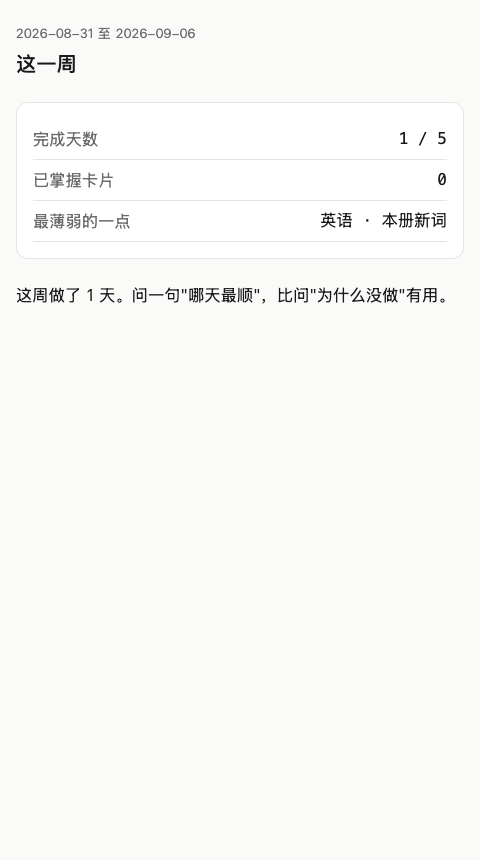
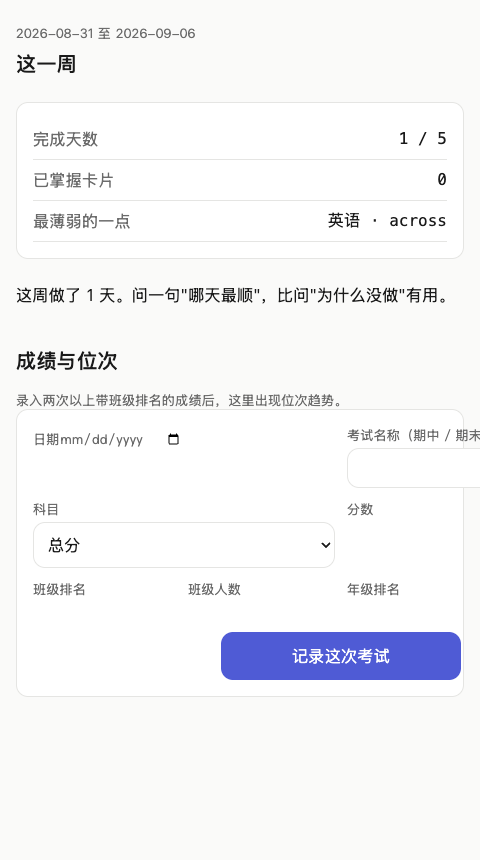
feat: 成绩与位次录入（MVP #6）：API、家长页表单/表格/位次折线（单序列，y 轴倒置）、端到端
Claude-Session: https://claude.ai/code/session_01QpKeEnngihpE2D68iPBZyr

diff --git a/src/client/screens/Parent.tsx b/src/client/screens/Parent.tsx
@@ -1,10 +1,12 @@
 import { useEffect, useState } from "react";
-import { api, type Weekly } from "../api.ts";
+import { api, EXAM_SUBJECTS, type ExamInput, type ExamScore, type Weekly } from "../api.ts";
 
-/** 家长周报：一页四项。不显示逐题、时长、时间戳。 */
+/** 家长页：周报四项 + 成绩与位次录入 + 位次趋势。同一视觉系统，信息密度可更高；不显示逐题与时长。 */
 export function Parent() {
   const [w, setW] = useState<Weekly | null>(null);
-  useEffect(() => { void api.weekly().then(setW); }, []);
+  const [exams, setExams] = useState<ExamScore[]>([]);
+  const reload = () => api.exams().then(setExams);
+  useEffect(() => { void api.weekly().then(setW); void reload(); }, []);
   if (!w) return null;
   return (
     <section>
@@ -16,6 +18,11 @@ export function Parent() {
         <Row label="最薄弱的一点" value={w.weakest ? `${w.weakest.subject} · ${w.weakest.topic}` : "还没有数据"} />
       </div>
       <p style={{ marginTop: 24 }}>{w.suggestion}</p>
+
+      <h2 className="t-title" style={{ margin: "40px 0 16px" }}>成绩与位次</h2>
+      <RankChart exams={exams} />
+      <ExamTable exams={exams} onDelete={(id) => void api.deleteExam(id).then(reload)} />
+      <ExamForm onAdded={reload} />
     </section>
   );
 }
@@ -25,5 +32,99 @@ function Row({ label, value }: { label: string; value: string }) {
     <div style={{ display: "flex", justifyContent: "space-between", padding: "8px 0", borderBottom: "1px solid var(--border)" }}>
       <span className="muted">{label}</span><span className="num">{value}</span>
     </div>
+  );
+}
+
+/** 位次趋势：一科一条线（单序列，无图例），y 轴倒置——第 1 名在上。2px 线、8px 标记、hover 提示。 */
+function RankChart({ exams }: { exams: ExamScore[] }) {
+  const subjects = EXAM_SUBJECTS.filter((s) => exams.some((e) => e.subject_id === s && e.class_rank !== null));
+  const [subject, setSubject] = useState<string | null>(null);
+  const cur = subject && subjects.includes(subject) ? subject : subjects[0];
+  if (!cur) return <p className="muted t-small">录入两次以上带班级排名的成绩后，这里出现位次趋势。</p>;
+  const pts = exams.filter((e) => e.subject_id === cur && e.class_rank !== null).sort((a, b) => a.date.localeCompare(b.date));
+  const W = 600, H = 200, L = 40, R = 16, T = 16, B = 32;
+  const maxRank = Math.max(...pts.map((p) => p.class_size ?? p.class_rank!), 10);
+  const x = (i: number) => L + (pts.length === 1 ? (W - L - R) / 2 : (i * (W - L - R)) / (pts.length - 1));
+  const y = (r: number) => T + ((r - 1) * (H - T - B)) / (maxRank - 1);
+  const ticks = [1, Math.round(maxRank / 2), maxRank];
+  return (
+    <figure style={{ margin: "0 0 16px" }}>
+      <div style={{ display: "flex", gap: 8, flexWrap: "wrap", marginBottom: 8 }}>
+        {subjects.map((s) => <button key={s} className="btn-text" aria-pressed={s === cur} style={{ color: s === cur ? "var(--text)" : undefined }} onClick={() => setSubject(s)}>{s}</button>)}
+      </div>
+      <svg viewBox={`0 0 ${W} ${H}`} role="img" aria-label={`${cur} 班级位次趋势`} style={{ width: "100%", height: "auto", display: "block" }}>
+        {ticks.map((t) => (
+          <g key={t}>
+            <line x1={L} x2={W - R} y1={y(t)} y2={y(t)} stroke="var(--border)" strokeWidth={1} />
+            <text x={L - 8} y={y(t) + 4} textAnchor="end" fontSize={11} fill="var(--text-muted)" className="num">{t}</text>
+          </g>
+        ))}
+        <polyline fill="none" stroke="var(--text)" strokeWidth={2} strokeLinejoin="round" points={pts.map((p, i) => `${x(i)},${y(p.class_rank!)}`).join(" ")} />
+        {pts.map((p, i) => (
+          <g key={p.id}>
+            <circle cx={x(i)} cy={y(p.class_rank!)} r={4} fill="var(--text)" stroke="var(--surface)" strokeWidth={2} />
+            <circle cx={x(i)} cy={y(p.class_rank!)} r={12} fill="transparent"><title>{`${p.date} ${p.name}：第 ${p.class_rank} 名${p.class_size ? ` / ${p.class_size}` : ""}`}</title></circle>
+            <text x={x(i)} y={H - 10} textAnchor="middle" fontSize={11} fill="var(--text-muted)">{p.name}</text>
+          </g>
+        ))}
+      </svg>
+      <figcaption className="t-small muted">{cur} · 班级位次（上为第 1 名）</figcaption>
+    </figure>
+  );
+}
+
+function ExamTable({ exams, onDelete }: { exams: ExamScore[]; onDelete: (id: number) => void }) {
+  if (exams.length === 0) return null;
+  return (
+    <div style={{ overflowX: "auto", marginBottom: 16 }}>
+      <table className="t-small" style={{ width: "100%", borderCollapse: "collapse" }}>
+        <thead><tr className="muted">{["日期", "考试", "科目", "分数", "班级", "年级", ""].map((h) => <th key={h} style={{ textAlign: "left", padding: "6px 8px", borderBottom: "1px solid var(--border)", fontWeight: 400 }}>{h}</th>)}</tr></thead>
+        <tbody>
+          {exams.map((e) => (
+            <tr key={e.id}>
+              <td className="num" style={td}>{e.date}</td><td style={td}>{e.name}</td><td style={td}>{e.subject_id}</td>
+              <td className="num" style={td}>{e.score} / {e.full_score}</td>
+              <td className="num" style={td}>{e.class_rank ?? "—"}{e.class_size ? ` / ${e.class_size}` : ""}</td>
+              <td className="num" style={td}>{e.grade_rank ?? "—"}{e.grade_size ? ` / ${e.grade_size}` : ""}</td>
+              <td style={td}><button className="btn-text" onClick={() => onDelete(e.id)}>删除</button></td>
+            </tr>
+          ))}
+        </tbody>
+      </table>
+    </div>
+  );
+}
+const td = { padding: "6px 8px", borderBottom: "1px solid var(--border)" } as const;
+
+function ExamForm({ onAdded }: { onAdded: () => void }) {
+  const empty: ExamInput = { date: "", name: "", subject: "总分", score: "", fullScore: "", classRank: "", classSize: "", gradeRank: "", gradeSize: "" };
+  const [f, setF] = useState<ExamInput>(empty);
+  const [msg, setMsg] = useState<string | null>(null);
+  const set = (k: keyof ExamInput) => (e: React.ChangeEvent<HTMLInputElement | HTMLSelectElement>) => setF({ ...f, [k]: e.target.value });
+  const submit = async (e: React.FormEvent) => {
+    e.preventDefault();
+    try { await api.addExam(f); setF({ ...empty, date: f.date, name: f.name }); setMsg("已记录。"); onAdded(); }
+    catch (err) { setMsg(String((err as Error).message)); }
+  };
+  const field = (label: string, k: keyof ExamInput, type = "text") => (
+    <label className="t-small muted" style={{ display: "block" }}>{label}<input type={type} value={f[k]} onChange={set(k)} style={{ marginTop: 4 }} /></label>
+  );
+  return (
+    <form onSubmit={submit} className="card" style={{ padding: 16, display: "grid", gridTemplateColumns: "1fr 1fr", gap: 12 }}>
+      {field("日期", "date", "date")}
+      {field("考试名称（期中 / 期末 / 月考）", "name")}
+      <label className="t-small muted" style={{ display: "block" }}>科目
+        <select value={f.subject} onChange={set("subject")} style={{ display: "block", marginTop: 4, width: "100%", padding: 10, borderRadius: 12, border: "1px solid var(--border)", background: "var(--surface)", color: "var(--text)", fontSize: 16 }}>
+          {EXAM_SUBJECTS.map((s) => <option key={s} value={s}>{s}</option>)}
+        </select>
+      </label>
+      <div style={{ display: "grid", gridTemplateColumns: "1fr 1fr", gap: 8 }}>{field("分数", "score", "number")}{field("满分", "fullScore", "number")}</div>
+      <div style={{ display: "grid", gridTemplateColumns: "1fr 1fr", gap: 8 }}>{field("班级排名", "classRank", "number")}{field("班级人数", "classSize", "number")}</div>
+      <div style={{ display: "grid", gridTemplateColumns: "1fr 1fr", gap: 8 }}>{field("年级排名", "gradeRank", "number")}{field("年级人数", "gradeSize", "number")}</div>
+      <div style={{ gridColumn: "1 / -1" }}>
+        <button className="btn-primary" type="submit">记录这次考试</button>
+        {msg && <p className="t-small muted" style={{ textAlign: "center", marginTop: 8 }}>{msg}</p>}
+      </div>
+    </form>
   );
 }

diff --git a/src/client/api.ts b/src/client/api.ts
@@ -15,9 +15,17 @@ export interface Answer { back: string; answerPoints?: string[]; sourceQuote: st
 export interface Weekly { week: { from: string; to: string }; daysDone: number; daysTotal: number; masteredCards: number; weakest: { subject: string; topic: string } | null; suggestion: string }
 export interface TodayItem { itemId: string; front: string }
 
-async function req<T>(path: string, body?: unknown): Promise<T> {
-  const res = await fetch(path, body === undefined ? undefined : { method: "POST", headers: { "content-type": "application/json" }, body: JSON.stringify(body) });
-  if (!res.ok) throw new Error(`${path} ${res.status}`);
+export const SUBJECTS = ["语文", "数学", "英语", "历史", "地理", "生物", "道法"];
+export interface ExamScore { id: number; date: string; name: string; subject_id: string; score: number; full_score: number; class_rank: number | null; class_size: number | null; grade_rank: number | null; grade_size: number | null }
+export interface ExamInput { date: string; name: string; subject: string; score: string; fullScore: string; classRank: string; classSize: string; gradeRank: string; gradeSize: string }
+
+async function req<T>(path: string, body?: unknown, method = "POST"): Promise<T> {
+  const res = await fetch(path, body === undefined ? undefined : { method, headers: { "content-type": "application/json" }, body: JSON.stringify(body) });
+  if (!res.ok) {
+    let msg = `${path} ${res.status}`;
+    try { const j = await res.json() as { error?: string }; if (j.error) msg = j.error; } catch { /* 非 JSON */ }
+    throw new Error(msg);
+  }
   return res.json() as Promise<T>;
 }
 
@@ -34,6 +42,9 @@ export const api = {
   reflect: (r: { hardest: string | null; guessed: string | null; tomorrow: string | null }) => req<Today>("/api/reflect", r),
   end: () => req<Today>("/api/session/end", {}),
   weekly: () => req<Weekly>("/api/parent/weekly"),
+  exams: () => req<ExamScore[]>("/api/parent/exams"),
+  addExam: (e: ExamInput) => req<{ id: number }>("/api/parent/exams", e),
+  deleteExam: (id: number) => req<{ ok: true }>(`/api/parent/exams/${id}`, {}, "DELETE"),
 };
+export const EXAM_SUBJECTS = ["总分", ...SUBJECTS];
 
-export const SUBJECTS = ["语文", "数学", "英语", "历史", "地理", "生物", "道法"];

diff --git a/src/server/db/repo.ts b/src/server/db/repo.ts
@@ -148,3 +148,20 @@ export function saveReflection(db: DatabaseSync, r: ReflectionRow): void {
 export function dueTomorrowCount(db: DatabaseSync, tomorrowEndIso: string, todayEndIso: string): number {
   return (db.prepare("SELECT COUNT(*) AS n FROM card_state WHERE archived = 0 AND due > ? AND due <= ?").get(todayEndIso, tomorrowEndIso) as { n: number }).n;
 }
+
+// ---------- exam_score（MVP #6） ----------
+export interface ExamScore {
+  id: number; date: string; name: string; subject_id: string; score: number; full_score: number;
+  class_rank: number | null; class_size: number | null; grade_rank: number | null; grade_size: number | null;
+}
+export function examScores(db: DatabaseSync): ExamScore[] {
+  return db.prepare("SELECT * FROM exam_score ORDER BY date, subject_id").all() as unknown as ExamScore[];
+}
+export function addExamScore(db: DatabaseSync, e: Omit<ExamScore, "id">): number {
+  const r = db.prepare("INSERT INTO exam_score (date, name, subject_id, score, full_score, class_rank, class_size, grade_rank, grade_size) VALUES (?, ?, ?, ?, ?, ?, ?, ?, ?)")
+    .run(e.date, e.name, e.subject_id, e.score, e.full_score, e.class_rank, e.class_size, e.grade_rank, e.grade_size);
+  return Number(r.lastInsertRowid);
+}
+export function deleteExamScore(db: DatabaseSync, id: number): void {
+  db.prepare("DELETE FROM exam_score WHERE id = ?").run(id);
+}

diff --git a/src/server/app.ts b/src/server/app.ts
@@ -69,5 +69,18 @@ export function createApp(db: DatabaseSync, clock: () => Date = () => new Date()
     return c.json({ week: { from: monday, to: sunday }, ...weeklyReport(sessions, cards, reviews) });
   });
 
+  // ---- 成绩与位次（MVP #6） ----
+  app.get("/api/parent/exams", (c) => c.json(repo.examScores(db)));
+  app.post("/api/parent/exams", async (c) => {
+    const b = await c.req.json<Record<string, unknown>>();
+    const num = (v: unknown) => (v === null || v === undefined || v === "" ? null : Number(v));
+    const date = String(b.date ?? ""), name = String(b.name ?? "").trim(), subject = String(b.subject ?? "");
+    const score = num(b.score), full = num(b.fullScore);
+    if (!/^\d{4}-\d{2}-\d{2}$/.test(date) || !name || !subject || score === null || full === null || !(full > 0)) return c.json({ error: "日期、名称、科目、分数、满分都要填" }, 400);
+    const id = repo.addExamScore(db, { date, name, subject_id: subject, score, full_score: full, class_rank: num(b.classRank), class_size: num(b.classSize), grade_rank: num(b.gradeRank), grade_size: num(b.gradeSize) });
+    return c.json({ id });
+  });
+  app.delete("/api/parent/exams/:id", (c) => { repo.deleteExamScore(db, Number(c.req.param("id"))); return c.json({ ok: true }); });
+
   return app;
 }

diff --git a/tests/loop/service.test.ts b/tests/loop/service.test.ts
@@ -110,3 +110,17 @@ describe("每日闭环端到端（API）", () => {
     expect(Object.keys(w).sort()).toEqual(["daysDone", "daysTotal", "masteredCards", "suggestion", "weakest", "week"]);
   });
 });
+
+describe("成绩与位次录入（API）", () => {
+  it("增删查，校验必填", async () => {
+    let r = await app.request("/api/parent/exams", { method: "POST", body: JSON.stringify({ date: "2026-11-10", name: "期中", subject: "总分", score: 612, fullScore: 700, classRank: 8, classSize: 45, gradeRank: 60, gradeSize: 520 }), headers: { "content-type": "application/json" } });
+    expect(r.status).toBe(200);
+    r = await app.request("/api/parent/exams", { method: "POST", body: JSON.stringify({ date: "2026-11-10", name: "期中", subject: "数学", score: 95 }), headers: { "content-type": "application/json" } });
+    expect(r.status).toBe(400);
+    const list = await j("/api/parent/exams");
+    expect(list).toHaveLength(1);
+    expect(list[0]).toMatchObject({ subject_id: "总分", score: 612, class_rank: 8, grade_size: 520 });
+    await app.request(`/api/parent/exams/${list[0].id}`, { method: "DELETE" });
+    expect(await j("/api/parent/exams")).toEqual([]);
+  });
+});
